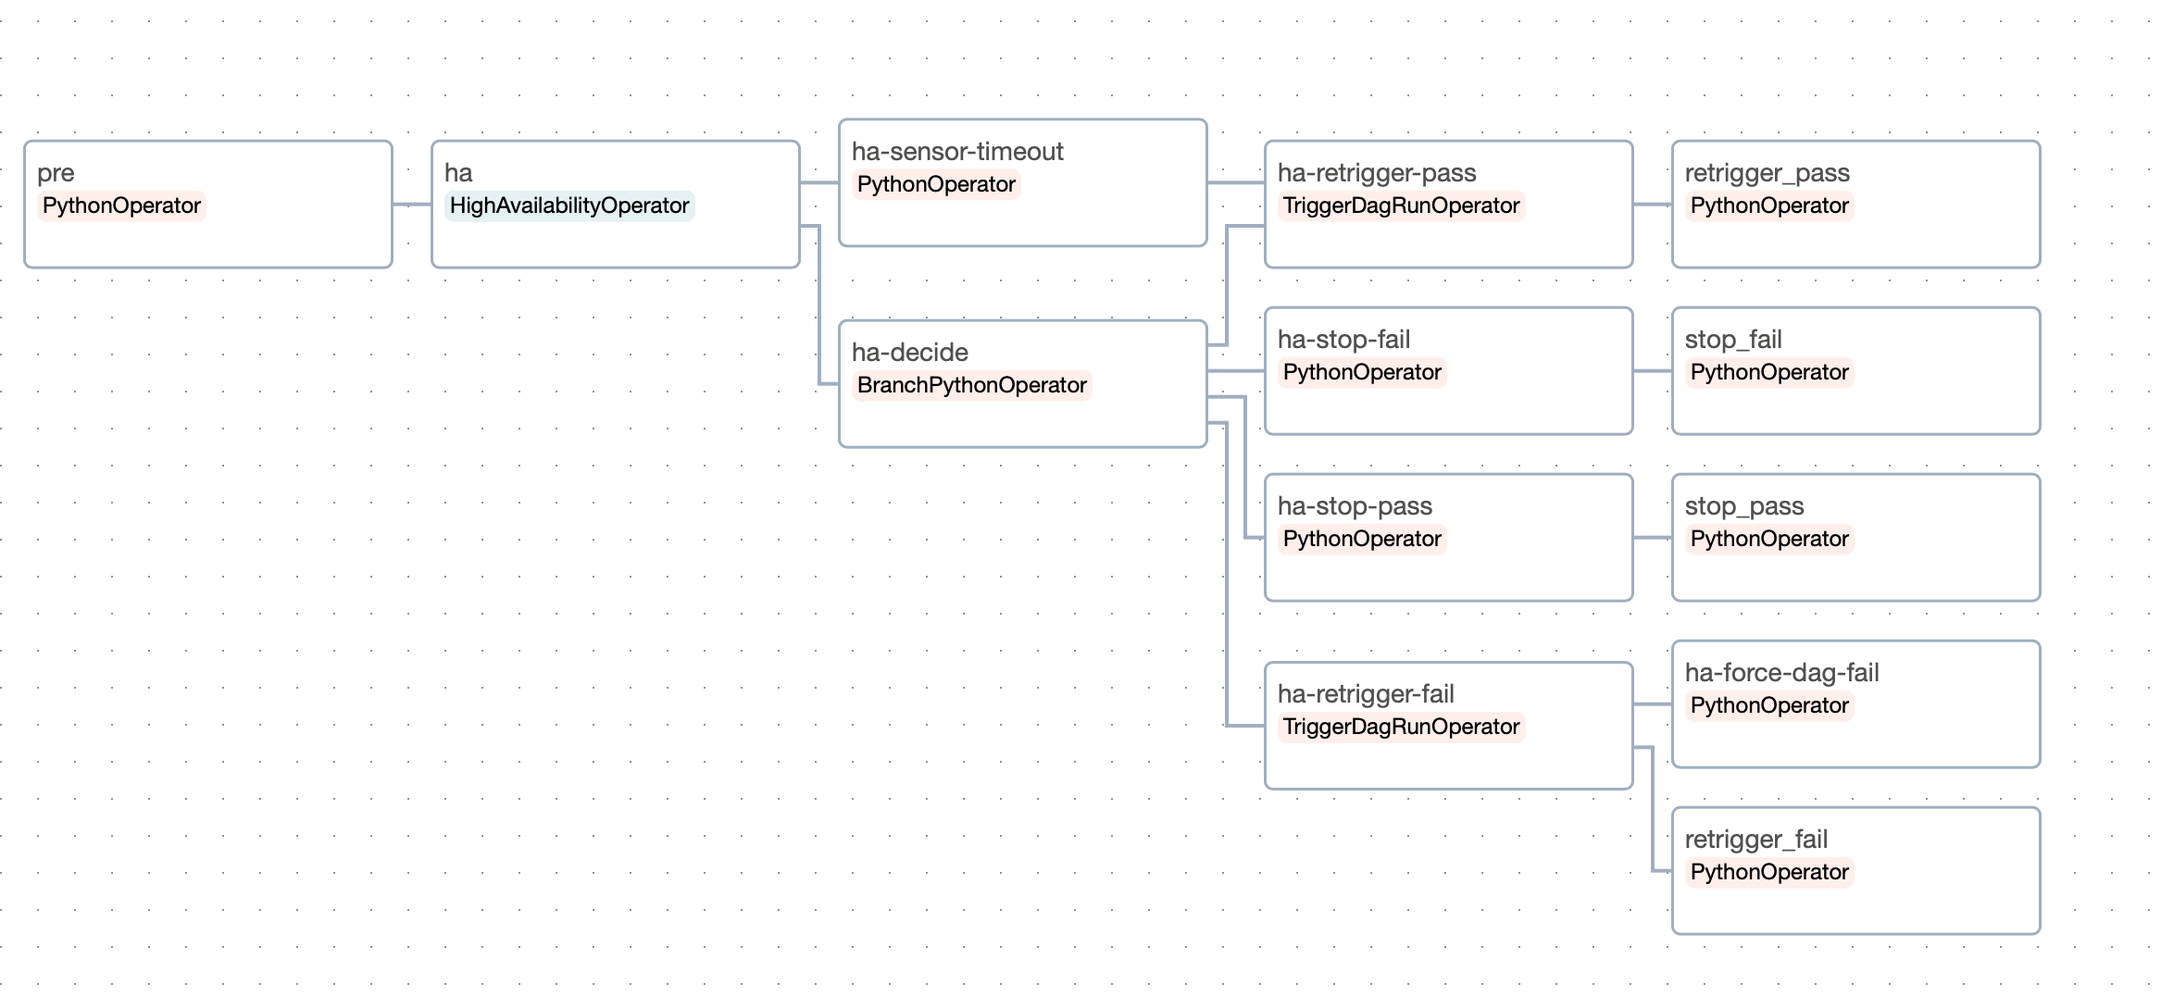
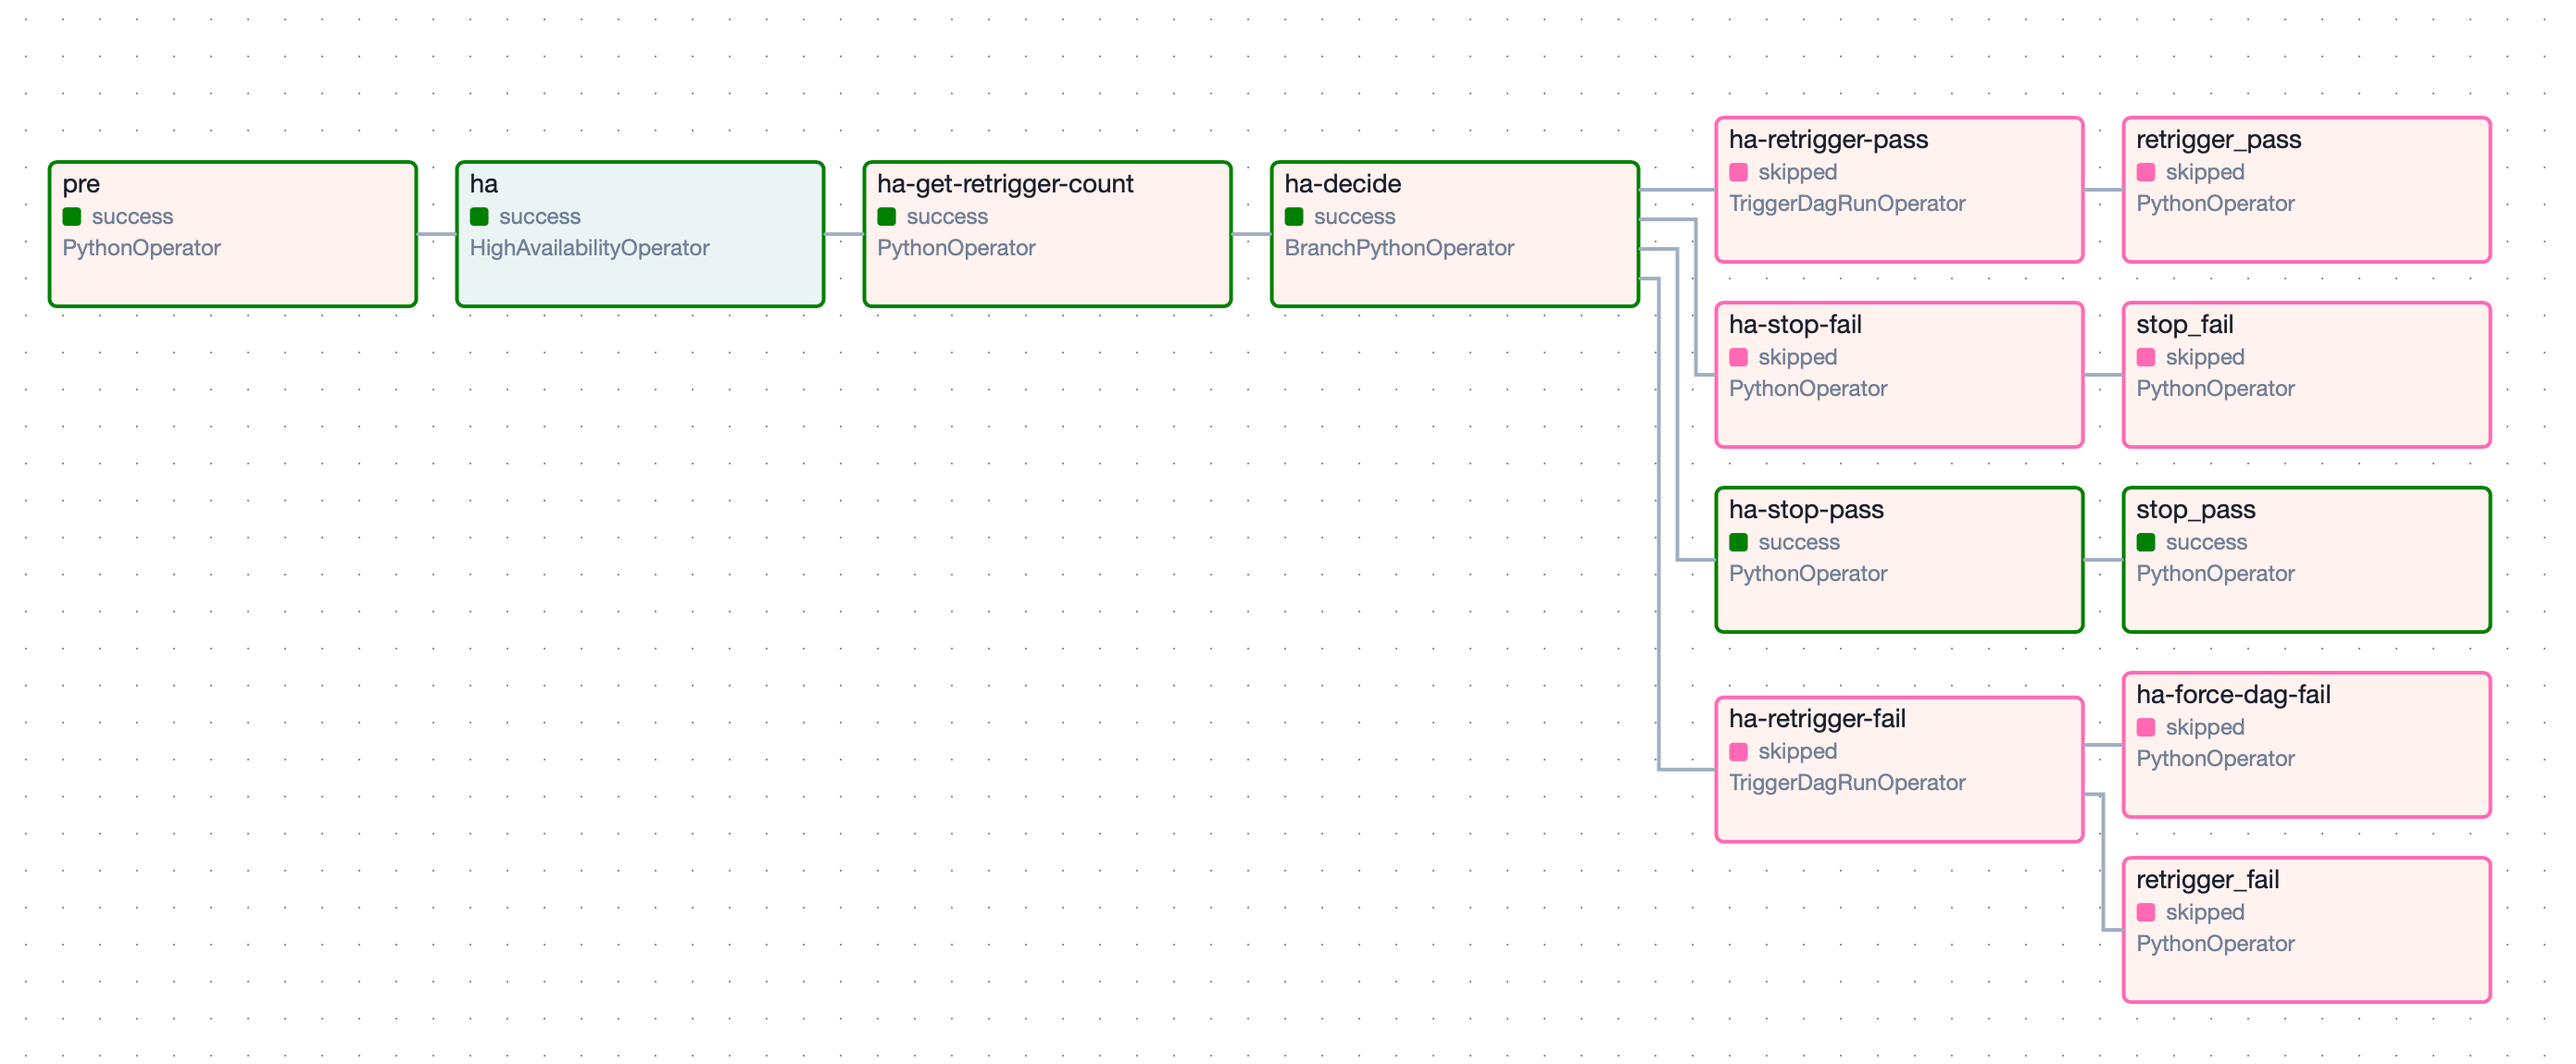
Finish dag if past end date, past end time, or after max retriggers

Changed region(s): [[0.0, 0.092, 0.9563, 0.9507]]

diff --git a/airflow_ha/operator.py b/airflow_ha/operator.py
@@ -1,5 +1,8 @@
-from typing import TYPE_CHECKING, Any, Callable, Dict, Optional
+from datetime import UTC, datetime, time, timedelta
+from logging import getLogger
+from typing import TYPE_CHECKING, Any, Callable, Dict, Optional, Union
 
+from airflow.models.param import Param
 from airflow.sensors.python import PythonSensor
 
 from .common import Action, CheckResult, Result
@@ -7,24 +10,37 @@ from .utils import fail_, pass_
 
 if TYPE_CHECKING:
     from airflow.models.operator import Operator
-    from airflow.operators.python import BranchPythonOperator
+    from airflow.operators.python import BranchPythonOperator, PythonOperator
 
 __all__ = ("HighAvailabilityOperator",)
+_log = getLogger(__name__)
 
 
 class HighAvailabilityOperator(PythonSensor):
     _decide_task: "BranchPythonOperator"
+    _count_task: "PythonOperator"
     _fail: "Operator"
     _retrigger_fail: "Operator"
     _retrigger_pass: "Operator"
     _stop_pass: "Operator"
     _stop_fail: "Operator"
+    _pass_trigger_kwargs: Optional[Dict[str, Any]] = None
+    _pass_trigger_kwargs_conf: str = "{}"
+    _fail_trigger_kwargs: Optional[Dict[str, Any]] = None
+    _fail_trigger_kwargs_conf: str = "{}"
+
+    _runtime: Optional[timedelta] = None
+    _endtime: Optional[time] = None
+    _maxretrigger: Optional[int] = None
 
     def __init__(
         self,
         python_callable: Callable[..., CheckResult],
         pass_trigger_kwargs: Optional[Dict[str, Any]] = None,
         fail_trigger_kwargs: Optional[Dict[str, Any]] = None,
+        runtime: Optional[Union[int, timedelta]] = None,
+        endtime: Optional[Union[str, time]] = None,
+        maxretrigger: Optional[int] = None,
         **kwargs,
     ) -> None:
         """The HighAvailabilityOperator is an Airflow Meta-Operator for long-running or "always-on" tasks.
@@ -39,9 +55,18 @@ class HighAvailabilityOperator(PythonSensor):
 
         Any setup should be state-aware (e.g. don't just start a process, check if it is currently started first).
         """
-        pass_trigger_kwargs = pass_trigger_kwargs or {}
-        fail_trigger_kwargs = fail_trigger_kwargs or {}
+        # These options control the behavior of the sensor
+        self._runtime = timedelta(seconds=runtime) if isinstance(runtime, int) else runtime
+        self._endtime = time.fromisoformat(endtime) if isinstance(endtime, str) else endtime
+        self._maxretrigger = maxretrigger or None
 
+        # These are kwarsg to pass to the trigger operators
+        self._pass_trigger_kwargs = pass_trigger_kwargs or {}
+        self._fail_trigger_kwargs = fail_trigger_kwargs or {}
+        self._pass_trigger_kwargs_conf = self._pass_trigger_kwargs.pop("conf", {})
+        self._fail_trigger_kwargs_conf = self._fail_trigger_kwargs.pop("conf", {})
+
+        # Function to control the sensor
         def _callable_wrapper(**kwargs):
             task_instance = kwargs["task_instance"]
             ret: CheckResult = python_callable(**kwargs)
@@ -59,7 +84,22 @@ class HighAvailabilityOperator(PythonSensor):
                 return False
             return True
 
+        # Initialize the sensor
         super().__init__(python_callable=_callable_wrapper, **kwargs)
+
+        # Add params to dag to control overrides
+        self.dag.params.update(
+            {
+                f"{self.task_id}-force-run": Param(False, "Ignore runtime/endtime/maxretrigger and force run the task", type="boolean"),
+                f"{self.task_id}-force-runtime": Param(
+                    None, "Override `runtime` in seconds, incompatible with `force-run`", type=["null", "integer"]
+                ),
+                f"{self.task_id}-force-endtime": Param(
+                    None, "Override `endtime`, incompatible with `force-run`", type=["null", "string"], format="time"
+                ),
+                f"{self.task_id}-force-maxretrigger": Param(None, "Override `maxretrigger`, incompatible with `force-run`", type=["null", "integer"]),
+            }
+        )
 
         # Deferred imports
         from airflow.operators.python import BranchPythonOperator, PythonOperator
@@ -67,18 +107,53 @@ class HighAvailabilityOperator(PythonSensor):
 
         # this is needed to ensure the dag fails, since the
         # retrigger_fail step will pass (to ensure dag retriggers!)
-        self._fail = PythonOperator(task_id=f"{self.task_id}-force-dag-fail", python_callable=fail_, trigger_rule="all_success")
+        self._fail = PythonOperator(task_id=f"{self.task_id}-force-dag-fail", python_callable=fail_)
+
+        self._stop_pass = PythonOperator(task_id=f"{self.task_id}-stop-pass", python_callable=pass_)
+        self._stop_fail = PythonOperator(task_id=f"{self.task_id}-stop-fail", python_callable=fail_)
+
+        self._count_task = PythonOperator(
+            task_id=f"{self.task_id}-get-retrigger-count",
+            python_callable=lambda **kwargs: int(kwargs["dag_run"].conf.get(f"{self.task_id}-retrigger", -1)) + 1,
+            provide_context=True,
+            trigger_rule="all_done",
+        )
+
+        # Update the retrigger counts in trigger kwargs
+        if isinstance(self._pass_trigger_kwargs_conf, dict):
+            self._pass_trigger_kwargs_conf[f"{self.task_id}-retrigger"] = (
+                f'''{{{{ ti.xcom_pull(key="return_value", task_ids="{self._count_task.task_id}") }}}}'''
+            )
+        else:
+            if not isinstance(self._pass_trigger_kwargs_conf, str) or not self._pass_trigger_kwargs_conf.strip().endswith("}"):
+                raise ValueError("pass_trigger_kwargs must be a dict or a JSON string")
+            self._pass_trigger_kwargs_conf = (
+                self._pass_trigger_kwargs_conf.strip()[:-1]
+                + f', "{self.task_id}-retrigger": {{{{ ti.xcom_pull(key="return_value", task_ids="{self._count_task.task_id}") }}}} }}'
+            )
+
+        if isinstance(self._fail_trigger_kwargs_conf, dict):
+            self._fail_trigger_kwargs_conf[f"{self.task_id}-retrigger"] = (
+                f'''{{{{ ti.xcom_pull(key="return_value", task_ids="{self._count_task.task_id}") }}}}'''
+            )
+        else:
+            if not isinstance(self._fail_trigger_kwargs_conf, str) or not self._fail_trigger_kwargs_conf.strip().endswith("}"):
+                raise ValueError("fail_trigger_kwargs must be a dict or a JSON string")
+            self._fail_trigger_kwargs_conf = (
+                self._fail_trigger_kwargs_conf.strip()[:-1]
+                + f', "{self.task_id}-retrigger": {{{{ ti.xcom_pull(key="return_value", task_ids="{self._count_task.task_id}") }}}} }}'
+            )
 
         self._retrigger_fail = TriggerDagRunOperator(
-            task_id=f"{self.task_id}-retrigger-fail", **{"trigger_dag_id": self.dag_id, "trigger_rule": "all_success", **fail_trigger_kwargs}
+            task_id=f"{self.task_id}-retrigger-fail",
+            conf=self._fail_trigger_kwargs_conf,
+            **{"trigger_dag_id": self.dag_id, "trigger_rule": "all_success", **self._fail_trigger_kwargs},
         )
         self._retrigger_pass = TriggerDagRunOperator(
-            task_id=f"{self.task_id}-retrigger-pass", **{"trigger_dag_id": self.dag_id, "trigger_rule": "one_success", **pass_trigger_kwargs}
+            task_id=f"{self.task_id}-retrigger-pass",
+            conf=self._pass_trigger_kwargs_conf,
+            **{"trigger_dag_id": self.dag_id, "trigger_rule": "one_success", **self._pass_trigger_kwargs},
         )
-
-        self._stop_pass = PythonOperator(task_id=f"{self.task_id}-stop-pass", python_callable=pass_, trigger_rule="all_success")
-        self._stop_fail = PythonOperator(task_id=f"{self.task_id}-stop-fail", python_callable=fail_, trigger_rule="all_success")
-
         branch_choices = {
             (Result.PASS, Action.RETRIGGER): self._retrigger_pass.task_id,
             (Result.PASS, Action.STOP): self._stop_pass.task_id,
@@ -86,29 +161,73 @@ class HighAvailabilityOperator(PythonSensor):
             (Result.FAIL, Action.STOP): self._stop_fail.task_id,
         }
 
-        def _choose_branch(branch_choices=branch_choices, **kwargs):
+        def _choose_branch(branch_choices=branch_choices, runtime=self._runtime, endtime=self._endtime, maxretrigger=self._maxretrigger, **kwargs):
+            # Grab the task instance
             task_instance = kwargs["task_instance"]
+
+            # Grab the dag start date
+            dag_start_date = kwargs["dag_run"].start_date
+
+            # Check if force run in dag run kwargs
+            force_run_conf = kwargs["dag_run"].conf.get("airflow_ha_force_run", False)
+            force_run_param = kwargs["params"].get(f"{self.task_id}-force-run", False)
+            _log.info(f"airflow-ha configuration -- force_run (conf): {force_run_conf}, force_run (param): {force_run_param}")
+            if not force_run_conf and not force_run_param:
+                runtime = kwargs["params"].get(f"{self.task_id}-force-runtime", None) or runtime
+                endtime = kwargs["params"].get(f"{self.task_id}-force-endtime", None) or endtime
+                _log.info(f"airflow-ha configuration -- runtime: {runtime}, endtime: {endtime}")
+
+                # Handle retrigger couts
+                maxretrigger = kwargs["params"].get(f"{self.task_id}-force-maxretrigger", None) or maxretrigger or -1
+                current_retrigger = int(kwargs["dag_run"].conf.get(f"{self.task_id}-retrigger", 0))
+                _log.info(f"airflow-ha configuration -- current_retrigger: {current_retrigger}, maxretrigger: {maxretrigger}")
+
+                # Check if runtime has exceeded
+                if runtime is not None and (datetime.now(tz=UTC) - dag_start_date).total_seconds() > runtime.total_seconds():
+                    # Runtime has exceeded, end
+                    _log.info(f"Runtime exceeded for {self.task_id}, stopping")
+                    return branch_choices[(Result.PASS, Action.STOP)]
+
+                # Check if endtime has passed
+                if endtime is not None and datetime.now().time() > endtime:  # NOTE: don't use utc here, assume `endtime` matches airflow timezone
+                    # Endtime has passed, end
+                    _log.info(f"Endtime passed for {self.task_id}, stopping")
+                    return branch_choices[(Result.PASS, Action.STOP)]
+
+                # Check if maxretrigger has exceeded
+                if maxretrigger > -1 and current_retrigger >= maxretrigger:
+                    # maxretrigger has exceeded, end
+                    _log.info(f"maxretrigger exceeded for {self.task_id}: {maxretrigger} / {current_retrigger}, stopping")
+                    retrigger_exceeded = True
+                else:
+                    retrigger_exceeded = False
+
+            # Otherwise, continue to evaluate
             check_program_result = task_instance.xcom_pull(key="return_value", task_ids=self.task_id)
             try:
                 result = Result(check_program_result[0])
                 action = Action(check_program_result[1])
                 ret = branch_choices.get((result, action), branch_choices[(Result.PASS, Action.RETRIGGER)])
+                if retrigger_exceeded:
+                    ret[1] = Action.STOP
+                _log.info(f"Sensor returned {result.name}, {action.name}, branching to {ret}")
             except (ValueError, IndexError, TypeError):
                 # Sensor has failed, retrigger
-                ret = branch_choices[(Result.PASS, Action.RETRIGGER)]
+                _log.warning("Sensor failed, pass/retrigger")
+                ret = branch_choices[(Result.PASS, Action.RETRIGGER if not retrigger_exceeded else Action.STOP)]
             return ret
 
         self._decide_task = BranchPythonOperator(
             task_id=f"{self.task_id}-decide",
             python_callable=_choose_branch,
             provide_context=True,
-            trigger_rule="all_success",
         )
 
-        self >> self._decide_task >> self._stop_pass
-        self >> self._decide_task >> self._stop_fail
-        self >> self._decide_task >> self._retrigger_pass
-        self >> self._decide_task >> self._retrigger_fail >> self._fail
+        self >> self._count_task >> self._decide_task
+        self._decide_task >> self._stop_pass
+        self._decide_task >> self._stop_fail
+        self._decide_task >> self._retrigger_pass
+        self._decide_task >> self._retrigger_fail >> self._fail
 
     @property
     def stop_fail(self) -> "Operator":

diff --git a/README.md b/README.md
@@ -20,7 +20,20 @@ The return value can trigger the following actions:
 | `(FAIL, STOP)`      | Finish the DAG, until its next scheduled run | `fail`                   |
 | `(*, CONTINUE)`     | Continue to run the Sensor                   | N/A                      |
 
-Note: if the sensor times out, the behavior matches `(Result.PASS, Action.RETRIGGER)`.
+> [!NOTE]
+> Note: if the sensor times out, the behavior matches `(Result.PASS, Action.RETRIGGER)`.
+
+### Limiters
+
+Arguments to `HighAvailabilityOperator` can be used to configure finishing behavior outside of the callable:
+
+- `runtime`: A `timedelta` or `int` (seconds). The operator will turn off cleanly after `dag.start_date + runtime` (`(PASS, STOP)`)
+- `endtime`: A `time` or `str` (isoformat time). The operator will turn off cleanly after `today + endtime` (`(PASS, STOP)`)
+- `maxretrigger`: An integer. The operator will turn off after `maxretrigger` retriggers (`(<previous status, STOP)`)
+
+> [!NOTE]
+> These can be configured as arguments to `HighAvailabilityOperator`, and will be automatically included as [DAG Params](https://airflow.apache.org/docs/apache-airflow/stable/core-concepts/params.html). This also allows them to be overriden by the DAG Config during a manual run. There is also a `force-run` option when running the DAG manually, which will cause the `HighAvailabilityOperator` to ignore the above 3 limiters.
+
 
 ### Example - Always On
 
@@ -56,7 +69,7 @@ with DAG(
     retrigger_fail = PythonOperator(task_id="retrigger_fail", python_callable=lambda **kwargs: "test")
     ha.retrigger_fail >> retrigger_fail
 
-    stop_fail = PythonOperator(task_id="stop_fail", python_callable=lambda **kwargs: "test")
+    stop_fail = PythonOperator(task_id="stop_fail", python_callable=lambda **kwargs: fail_, trigger_rule="all_failed")
     ha.stop_fail >> stop_fail
     
     retrigger_pass = PythonOperator(task_id="retrigger_pass", python_callable=lambda **kwargs: "test")
